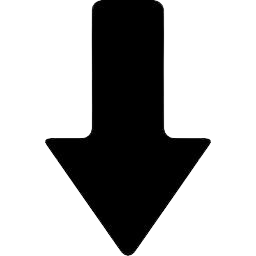
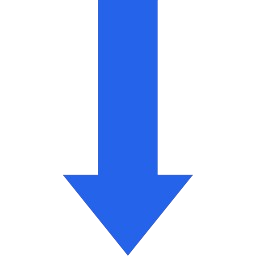
Estilização finalizada

diff --git a/css/style.css b/css/style.css
@@ -28,12 +28,20 @@ body {
     width: 150px;
 }
 
+.img-arrow {
+    width: 100px;
+    margin: 15px 0;
+}
+
+
+
 main {
-    width: 375px;
+    width: 400px;
     border-radius: 28px;
     background-color: #e0dbdb;
-    margin: 0 auto;
+    margin: 0 auto 40px;
     padding: 44px 24px 23px;
+
 }
 
 label {
@@ -42,7 +50,7 @@ label {
     font-size: 14px;
 }
 
-select {
+select, input {
     background-color: #fff;
     border: 1px solid #888888;
     border-radius: 4px;
@@ -53,4 +61,53 @@ select {
     padding-left: 18px;
     font-weight: 700;
     font-size: 16px;
+    cursor: pointer;
+}
+
+button {
+    background-color: #2563EB;
+    width: 100%;
+    border: none;
+    height: 48px;
+    font-size: 18px;
+    font-weight: bold;
+    color: #fff;
+    cursor: pointer;
+}
+
+button:hover {
+    opacity: 0.8;
+    background-color: #2960d8;
+}
+
+button:active {
+    opacity: 0.6;
+}
+
+section {
+    border: 2px solid #2563EB;
+    border-radius: 20px;
+    margin-top: 36px;
+    padding: 12px;
+    display: flex;
+    flex-direction: column;
+    align-items: center;
+}
+
+.currency-box {
+    display: flex;
+    flex-direction: column;
+    align-items: center;
+    gap: 4px;
+}
+
+.currency {
+    color: #777777;
+    font-size: 14px;
+}
+
+.currency-value {
+    color: #555555;
+    font-weight: 700;
+    font-size: 20px;
 }

diff --git a/index.html b/index.html
@@ -33,18 +33,18 @@
         <button>Converter</button>
 
         <section>
-            <div>
+            <div class="currency-box">
                 <img class="img-logo" src="img/br1.webp" alt="Logo-moeda-a-converter">
-                <p>Real</p>
-                <p>R$ 0,00</p>
+                <p class="currency">Real</p>
+                <p class="currency-value">R$ 0,00</p>
             </div>
 
-            <img class="img-logo" src="img/arrow1.png" alt="Arrow">
+            <img class="img-arrow" src="img/arrow1.png" alt="Arrow">
 
-            <div>
+            <div class="currency-box">
                 <img class="img-usa" src="img/usa1.png" alt="Logo-moeda-a-converter">
-                <p>Dólar</p>
-                <p>US$ 0.00</p>
+                <p class="currency">Dólar</p>
+                <p class="currency-value">US$ 0.00</p>
             </div>
         </section>
 
